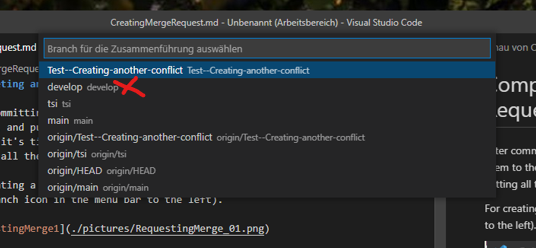
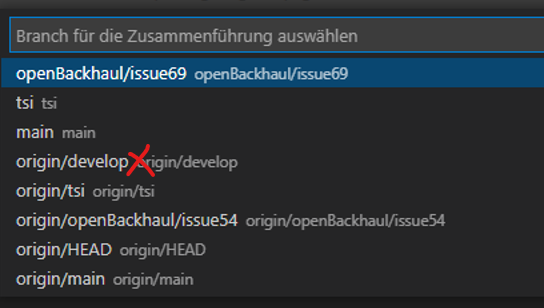
Fix: Change StepByStep MergeRequest

diff --git a/doc/PreparingSpecifying/CreatingMergeRequest/CreatingMergeRequest.md b/doc/PreparingSpecifying/CreatingMergeRequest/CreatingMergeRequest.md
@@ -1,49 +1,34 @@
 # Completing an Issue and creating a Merge Request
 
-After _committing_ all changes, which are necessary to complete the _Issue_, it is time for consolidating your contribution into the common _develop_ branch.
+After _committing_ all changes, which are necessary to complete the _Issue_, into the local _feature branch_ it is time for consolidating your contribution into the public _develop_ branch (_origin/develop branch_).
 
 For contributing your work, click on the source control symbol (the branch icon in the menu bar to the left).  
 
 ![RequestingMerge1](./pictures/RequestingMerge_01.png)
 
-In a first phase of the process, you have to assure that your contribution is not creating any conflicts while _merging_ into the common _develop branch_.
-For this purpose, you have to _merge_ an up-to-date copy of the _develop branch_ into your local _feature branch_.
+In a first phase of the process, you have to assure that your contribution is not creating any conflicts while _merging_ into the public _develop branch_ (_origin/develop branch_).  
+For this purpose, you have to _merge_ the _origin/develop branch_ into your local _feature branch_. (Please, be aware that this is the opposite direction from the actually intended.)  
 
-* Click on the current branch name in the lower left corner of the VSCode window ...  
-![RequestingMerge2](./pictures/RequestingMerge_02.png)
-
-* ... and choose the _develop branch_ from the list.  
-![RequestingMerge3](./pictures/RequestingMerge_03.png)
-
-* Click on the round arrow for updating the local copy of the _develop branch_.  
-![RequestingMerge4](./pictures/RequestingMerge_04.png)
-
-* Click again von the current branch name in the lower left corner of the VSCode window ...  
-![RequestingMerge5](./pictures/RequestingMerge_05.png)
-
-* ... and change back into the _feature branch_ you would like to finish.  
-![RequestingMerge6](./pictures/RequestingMerge_06.png)
-
-* Now, open the menu at the repository, which you would like to contribute to, click on "Branch zusammenführen"...  
+* Open the menu at the repository, which you would like to contribute to, click on "Branch zusammenführen"...  
 ![RequestingMerge7](./pictures/RequestingMerge_07.png)
 
-* ... and chose the _develop branch_ from the list.  
+* ... and chose the _origin/develop branch_ from the list.  
 ![RequestingMerge8](./pictures/RequestingMerge_08.png)
 
 * If there would be any _merge conflicts_, they would show up now.
-* After analyzing two conflicting versions of the code, you could decide for the versions (current, incoming or both) to become part of your local branch.  
+* After analyzing two conflicting versions of the code, you could decide for the versions (current, incoming or both) to become part of your local _feature branch_.  
 ![RequestingMerge9](./pictures/RequestingMerge_09.png)
 
-* Save the files, which got changed during resolving all conflicts by Ctrl+s and _stage_ them for being _committed_ during the _merge_ of the up-to-date copy of the _develop branch_ into your _feature branch_.  
+* Save the files, which got changed during resolving all conflicts by Ctrl+s and _stage_ them for being _committed_ during the _merge_ of the _origin/develop branch_ into your local _feature branch_.  
 ![RequestingMerge10](./pictures/RequestingMerge_10.png)
 
-* Confirm the _merge_ of the up-to-date copy of the _develop branch_ into your _feature branch_ ...  
+* Confirm the _merge_ of the _origin/develop branch_ into your local _feature branch_ ...  
 ![RequestingMerge11](./pictures/RequestingMerge_11.png)
 
-* ... and _push_ your local _feature branch_ with the resolved conflicts to the remote repository.  
+* ... and _push_ your local _feature branch_ with the resolved conflicts to the remote repository (creates or updates remote _feature branch_).  
 ![RequestingMerge12](./pictures/RequestingMerge_12.png)
 
-In the second phase of the process, you have to create the _Merge Request_ for consolidating the remote copy of your _feature branch_, which is now cleared from conflicts, into the common _develop branch_.  
+In the second phase of the process, you have to create the _Merge Request_ for consolidating the remote copy of your _feature branch_, which is now cleared from conflicts, into the _origin/develop branch_.  
 
 * Click on the pull request icon at the repository you would like to change.  
 ![RequestingMerge13](./pictures/RequestingMerge_13.png)
@@ -61,6 +46,7 @@ After conducting the _merge_
 * the _Issue_, which initiated creation of the _feature branch_, will be closed
 * and the remote copy of the _feature branch_ will be deleted.
 
-Please, take care that you are also removing your local _feature branch_ after you got informed about the successful _merging_. Otherwise your local repository will turn into a dump and you will get confused by mixing _branches_ of similar sounding names.
+Please, take care that you are also deleting your local _feature branch_ after you got informed about the successful _merging_.  
+Otherwise your local repository will turn into a dump and you will get confused by mixing _branches_ of similar sounding names.  
 
 [Up to Preparing](../PreparingSpecifying.md)
